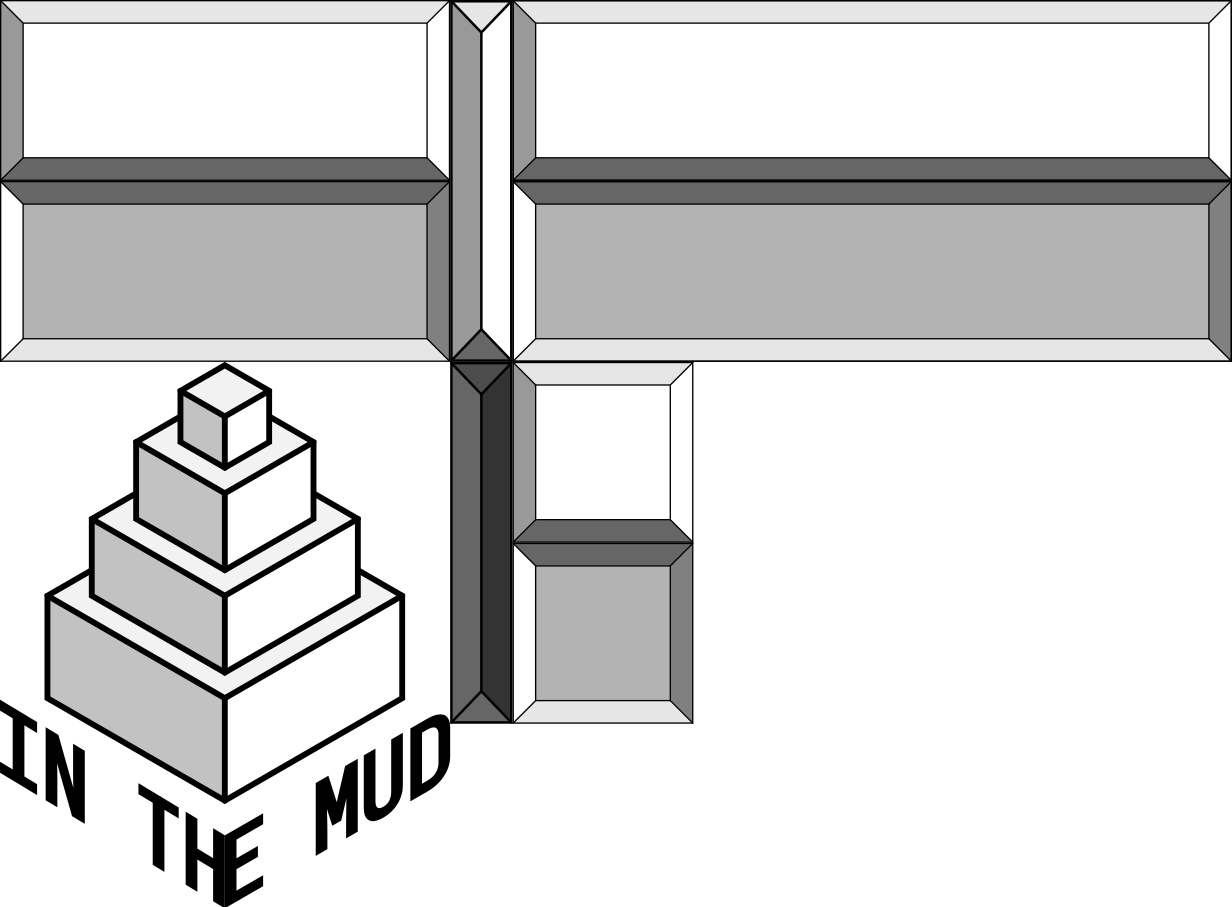
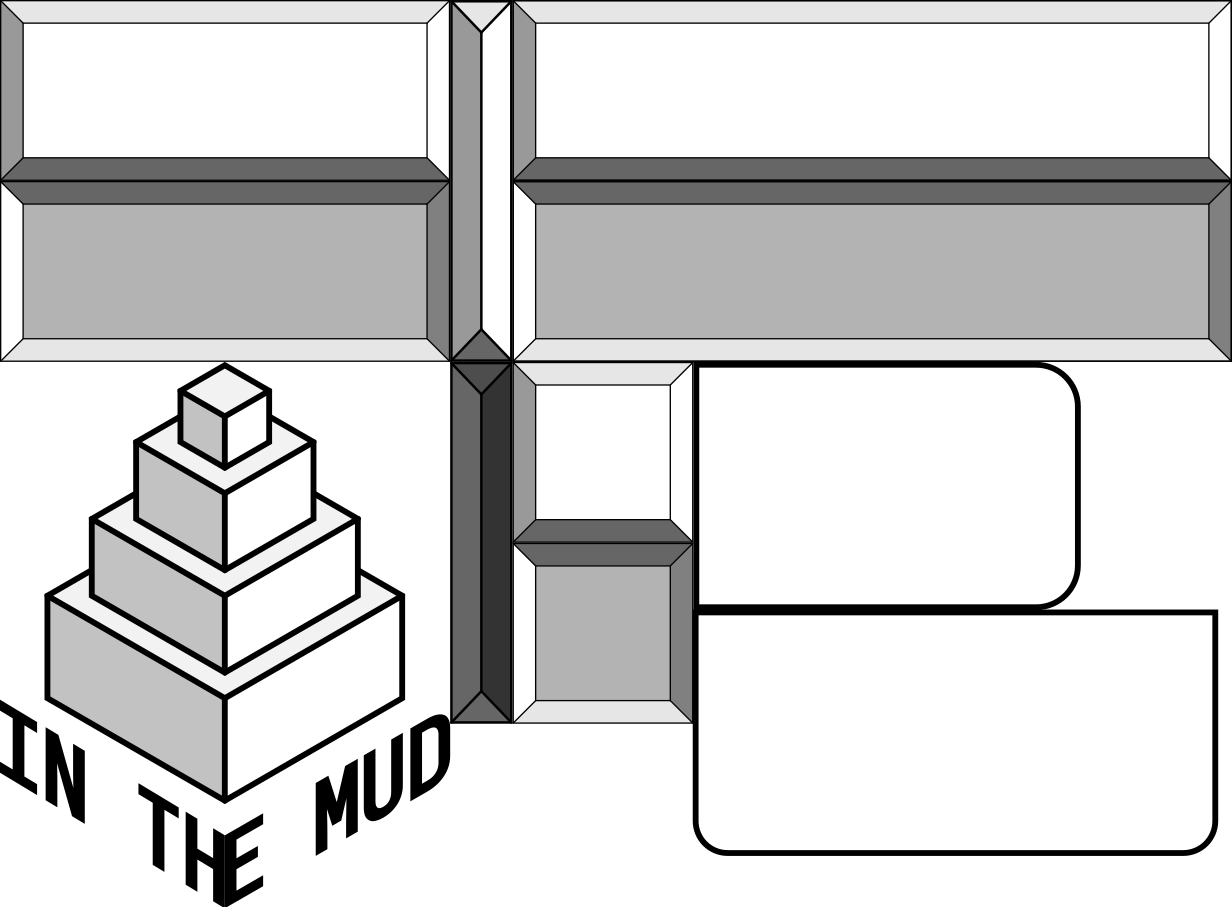
Added entity stats indicator

Changed region(s): [[0.5552, 0.4013, 1.0, 0.957]]

diff --git a/src/main/java/io/game/ui/EntityInfo.java b/src/main/java/io/game/ui/EntityInfo.java
@@ -1,0 +1,67 @@
+package io.game.ui;
+
+import core.entities.model.Entity;
+import core.resources.ResourceType;
+import io.game.world.WorldTexture;
+import io.menu.Image;
+import io.menu.Label;
+import io.menu.Rectangle;
+import io.menu.UIComponent;
+import io.menu.containers.VBox;
+import io.model.engine.Canvas;
+import io.model.engine.Color;
+import io.model.engine.TextManager;
+import io.model.textures.Texture;
+
+import java.util.ArrayList;
+
+public class EntityInfo implements UIComponent {
+    private final Image bannerTop = new Image(Texture.BANNER_TOP);
+    private final Entity entity;
+    private final Image entityImage;
+
+    private final VBox stats;
+
+    public EntityInfo(Entity entity) {
+        this.entity = entity;
+        this.entityImage = new Image(
+                WorldTexture.from(entity.type()).getTexture(),
+                Color.fromPlayerId(entity.owner())
+        );
+        ArrayList<UIComponent> labels = new ArrayList<>();
+        entity.getHealth().ifPresent(health -> labels.add(new Label("HP: " + health.getCurrentHealth())));
+        entity.getAttack().ifPresent(attack -> labels.add(new Label("ACK: " + attack.damage())));
+        entity.getProduction().ifPresent(production -> labels.add(new Label("PROD: " + production.amount(ResourceType.MUD))));
+        this.stats = new VBox(0.01f, labels);
+    }
+
+    @Override
+    public float getAspectRatio(TextManager mgr) {
+        return bannerTop.getAspectRatio(mgr);
+    }
+
+    @Override
+    public void fitInto(Rectangle rectangle, TextManager mgr) {
+        bannerTop.fitInto(rectangle, mgr);
+        var rect = this.bannerTop.getBounds();
+        entityImage.fitInto(new Rectangle(
+                rect.position.x() + 0.01f,
+                rect.position.y() + 0.01f,
+                rect.width() / 3,
+                rect.height - 0.02f
+        ), mgr);
+        stats.fitInto(new Rectangle(
+                rect.position.x() + rect.width() * 0.4f,
+                rect.position.y() + 0.01f,
+                rect.width() * 0.5f,
+                rect.height - 0.02f
+        ), mgr);
+    }
+
+    @Override
+    public void draw(Canvas canvas) {
+        bannerTop.draw(canvas);
+        entityImage.draw(canvas);
+        stats.draw(canvas);
+    }
+}

diff --git a/src/main/java/io/game/ui/HUD.java b/src/main/java/io/game/ui/HUD.java
@@ -1,6 +1,8 @@
 package io.game.ui;
 
+import core.entities.model.Entity;
 import core.entities.model.EntityType;
+import core.resources.PlayerResourcesView;
 import core.turns.PlayerTurnView;
 import io.menu.Image;
 import io.menu.Rectangle;
@@ -31,14 +33,19 @@ public class HUD {
 
     UIComponent content = new HBox(0.1f, buttons);
 
-    private final PlayerTurnView turnView;
+    Image bannerLeft = new Image(Texture.BANNER_LEFT);
+    EntityInfo entityInfo;
 
-    public HUD(PlayerTurnView turnView) {
+    private final PlayerTurnView turnView;
+    private final PlayerResourcesView resourcesView;
+
+    public HUD(PlayerTurnView turnView, PlayerResourcesView resourcesView) {
         this.turnView = turnView;
+        this.resourcesView = resourcesView;
     }
 
 
-    public void update(ScreenPosition mouse, boolean pressed, TextManager mgr) {
+    public void update(ScreenPosition mouse, float aspectRatio, boolean pressed, TextManager mgr) {
         content.fitInto(new Rectangle(0, 0.01f, 1, 0.1f), mgr);
         buttons.forEach(button -> button.update(mouse, pressed));
 
@@ -46,11 +53,25 @@ public class HUD {
         nextTurn.setPressed(!nextTurnEnabled);
         nextTurn.fitInto(new Rectangle(0.84f, 0.01f, 0.15f, 0.15f), mgr);
         nextTurn.update(mouse, pressed);
+        bannerLeft.fitInto(new Rectangle(0, aspectRatio - 0.15f, 0.1f / bannerLeft.getAspectRatio(mgr), 0.1f), mgr);
+        if (entityInfo != null)
+            entityInfo.fitInto(new Rectangle(0, aspectRatio - 0.15f, 1, 0.15f), mgr);
     }
 
     public void draw(Canvas canvas) {
         content.draw(canvas);
         nextTurn.draw(canvas);
+        bannerLeft.draw(canvas);
+        if (entityInfo != null)
+            entityInfo.draw(canvas);
+    }
+
+    public void showEntityInfo(Entity entity) {
+        entityInfo = new EntityInfo(entity);
+    }
+
+    public void hideEntityInfo() {
+        entityInfo = null;
     }
 
     public void setEndTurnEnabled(boolean enabled) {

diff --git a/src/main/java/io/game/GameView.java b/src/main/java/io/game/GameView.java
@@ -5,6 +5,8 @@ import ai.RandomWalker;
 import core.model.EntityID;
 import core.model.PlayerID;
 import core.model.Position;
+import core.resources.PlayerResourcesView;
+import core.resources.Resources;
 import io.animation.Animation;
 import io.animation.AnimationController;
 import io.animation.Finishable;
@@ -87,7 +89,12 @@ public class GameView extends SimpleView {
         }
 
         map = new Map(me.getCore().terrain(), me.getCore().entityBoard());
-        hud = new HUD(me.getCore().turnView());
+        hud = new HUD(me.getCore().turnView(), new PlayerResourcesView() {
+            @Override
+            public boolean canAfford(Resources cost) {
+                return false;
+            }
+        });
         animations.addAnimation(cameraController);
         animations.addAnimation(map);
         worldController = new WorldController(
@@ -187,7 +194,7 @@ public class GameView extends SimpleView {
                 }
             });
         }
-        hud.update(input.mouse().position(), input.mouse().leftPressed(), mgr);
+        hud.update(input.mouse().position(), input.window().height() / input.window().width(), input.mouse().leftPressed(), mgr);
         dragDetector.update(input.mouse(), input.deltaTime());
         animations.update(input.deltaTime());
         camera.setAspectRatio(input.window().height() / input.window().width());

diff --git a/src/main/java/io/menu/containers/VBox.java b/src/main/java/io/menu/containers/VBox.java
@@ -23,15 +23,15 @@ public class VBox implements UIComponent {
 
 
     @Override
-    public float getAspectRatio() {
+    public float getAspectRatio(TextManager mgr) {
         float aspect = -gap;
-        for (UIComponent component : components) aspect += component.getAspectRatio() + gap;
+        for (UIComponent component : components) aspect += component.getAspectRatio(mgr) + gap;
         return aspect;
     }
 
     @Override
     public void fitInto(Rectangle rect, TextManager mgr) {
-        Rectangle bounds = new Rectangle(getAspectRatio());
+        Rectangle bounds = new Rectangle(getAspectRatio(mgr));
         bounds.fitInto(rect);
         float y = bounds.position.y();
         for (var component : components) {
@@ -39,9 +39,9 @@ public class VBox implements UIComponent {
                     bounds.position.x(),
                     y,
                     bounds.width(),
-                    bounds.width() * component.getAspectRatio()
+                    bounds.width() * component.getAspectRatio(mgr)
             );
-            y += bounds.width() * component.getAspectRatio() + gap * bounds.width();
+            y += bounds.width() * component.getAspectRatio(mgr) + gap * bounds.width();
             component.fitInto(componentBounds, mgr);
 
         }

diff --git a/src/main/java/io/menu/containers/HBox.java b/src/main/java/io/menu/containers/HBox.java
@@ -23,25 +23,25 @@ public class HBox implements UIComponent {
 
 
     @Override
-    public float getAspectRatio() {
+    public float getAspectRatio(TextManager mgr) {
         float aspect = -gap;
-        for (UIComponent component : components) aspect += component.getAspectRatio() + gap;
+        for (UIComponent component : components) aspect += component.getAspectRatio(mgr) + gap;
         return 1 / aspect;
     }
 
     @Override
     public void fitInto(Rectangle rect, TextManager mgr) {
-        Rectangle bounds = new Rectangle(getAspectRatio());
+        Rectangle bounds = new Rectangle(getAspectRatio(mgr));
         bounds.fitInto(rect);
         float x = bounds.position.x();
         for (var component : components) {
             var componentBounds = new Rectangle(
                     x,
                     bounds.position.y(),
-                    bounds.height / component.getAspectRatio(),
+                    bounds.height / component.getAspectRatio(mgr),
                     bounds.height
             );
-            x += bounds.height / component.getAspectRatio() + gap * bounds.height;
+            x += bounds.height / component.getAspectRatio(mgr) + gap * bounds.height;
             component.fitInto(componentBounds, mgr);
 
         }

diff --git a/src/main/java/gdx_io/TextureBank.java b/src/main/java/gdx_io/TextureBank.java
@@ -38,6 +38,8 @@ public class TextureBank implements io.model.engine.TextureBank {
         textures.put(io.model.textures.Texture.BUTTON_BIG_PRESSED, new TextureRegion(ui, 512, 181, 720, 181));
         textures.put(io.model.textures.Texture.BUTTON_TINY, new TextureRegion(ui, 512, 362, 182, 181));
         textures.put(io.model.textures.Texture.BUTTON_TINY_PRESSED, new TextureRegion(ui, 512, 543, 182, 181));
+        textures.put(io.model.textures.Texture.BANNER_LEFT, new TextureRegion(ui, 695, 363, 386, 246));
+        textures.put(io.model.textures.Texture.BANNER_TOP, new TextureRegion(ui, 694, 610, 524, 247));
         textures.put(io.model.textures.Texture.SCROLL_TOP, new TextureRegion(ui, 450, 0, 62, 34));
         textures.put(io.model.textures.Texture.SCROLL_MID, new TextureRegion(ui, 450, 34, 62, 33));
         textures.put(io.model.textures.Texture.SCROLL_BOT, new TextureRegion(ui, 450, 328, 62, 33));

diff --git a/src/main/java/io/menu/Label.java b/src/main/java/io/menu/Label.java
@@ -6,7 +6,6 @@ import io.model.engine.TextManager;
 public class Label implements UIComponent {
 
     String text;
-    private float aspectRatio;
     Rectangle bounds;
 
     public Label(String text) {
@@ -14,14 +13,13 @@ public class Label implements UIComponent {
     }
 
     @Override
-    public float getAspectRatio() {
-        return aspectRatio;
+    public float getAspectRatio(TextManager mgr) {
+        return 1 / mgr.getTextAspectRatio(text);
     }
 
     @Override
     public void fitInto(Rectangle rectangle, TextManager mgr) {
-        aspectRatio = 1 / mgr.getTextAspectRatio(text);
-        bounds = new Rectangle(aspectRatio);
+        bounds = new Rectangle(getAspectRatio(mgr));
         bounds.fitInto(rectangle);
     }
 

diff --git a/src/main/java/io/menu/scroll/ScrollBox.java b/src/main/java/io/menu/scroll/ScrollBox.java
@@ -19,14 +19,14 @@ public class ScrollBox implements UIComponent {
     }
 
     @Override
-    public float getAspectRatio() {
+    public float getAspectRatio(TextManager mgr) {
         return 1f;
     }
 
     @Override
     public void fitInto(Rectangle rectangle, TextManager mgr) {
         var contentWidth = rectangle.width() * 0.9f;
-        var contentHeight = contents.getAspectRatio() * contentWidth;
+        var contentHeight = contents.getAspectRatio(mgr) * contentWidth;
         maxScroll = Math.max((contentHeight - rectangle.height) / contentWidth, 0);
         if (scrollAmount > maxScroll)
             scrollAmount = maxScroll;

diff --git a/src/main/java/io/game/world/controller/states/Normal.java b/src/main/java/io/game/world/controller/states/Normal.java
@@ -35,12 +35,14 @@ public class Normal extends WorldState {
 
     @Override
     public void onTileHover(Position position) {
-
+        state.hud().hideEntityInfo();
     }
 
     @Override
-    public void onEntityHover(EntityID entity) {
-
+    public void onEntityHover(EntityID entityID) {
+        var entity = state.entities().findEntityByID(entityID);
+        if (entity != null)
+            state.hud().showEntityInfo(entity);
     }
 
     @Override

diff --git a/src/main/java/io/menu/Image.java b/src/main/java/io/menu/Image.java
@@ -24,13 +24,17 @@ public class Image implements UIComponent {
     }
 
     @Override
-    public float getAspectRatio() {
+    public float getAspectRatio(TextManager mgr) {
         return texture.aspectRatio();
     }
 
     @Override
     public void fitInto(Rectangle rectangle, TextManager mgr) {
         bounds.fitInto(rectangle);
+    }
+
+    public Rectangle getBounds() {
+        return bounds;
     }
 
     @Override

diff --git a/src/main/java/io/menu/ButtonBlock.java b/src/main/java/io/menu/ButtonBlock.java
@@ -41,8 +41,8 @@ public class ButtonBlock implements UIComponent {
 
 
     @Override
-    public float getAspectRatio() {
-        return content.getAspectRatio();
+    public float getAspectRatio(TextManager mgr) {
+        return content.getAspectRatio(mgr);
     }
 
     @Override

diff --git a/src/main/java/io/game/world/WorldTexture.java b/src/main/java/io/game/world/WorldTexture.java
@@ -63,6 +63,10 @@ public enum WorldTexture {
         );
     }
 
+    public Texture getTexture() {
+        return texture;
+    }
+
     public void draw(WorldPosition position, Canvas canvas, Camera camera) {
         canvas.draw(getDrawData(position, camera));
     }
